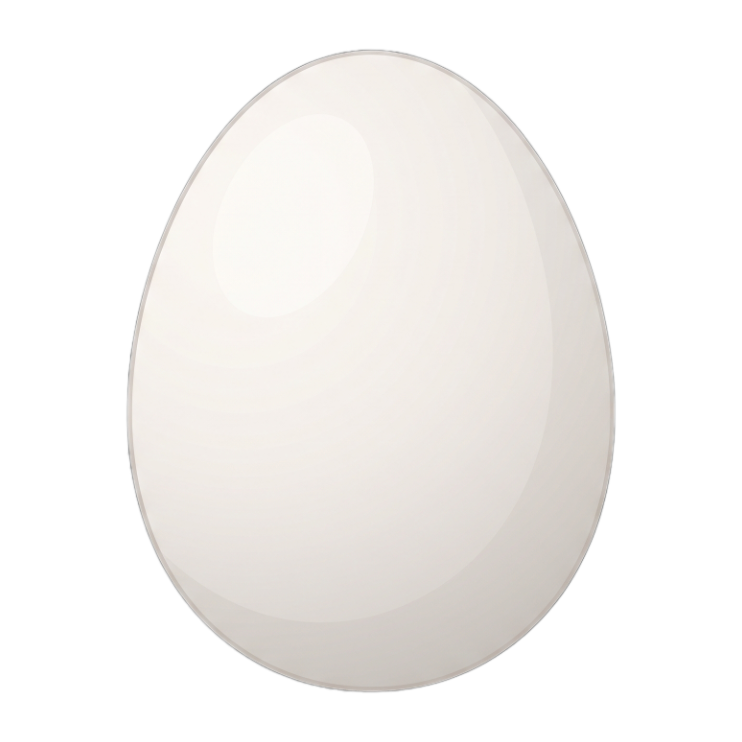
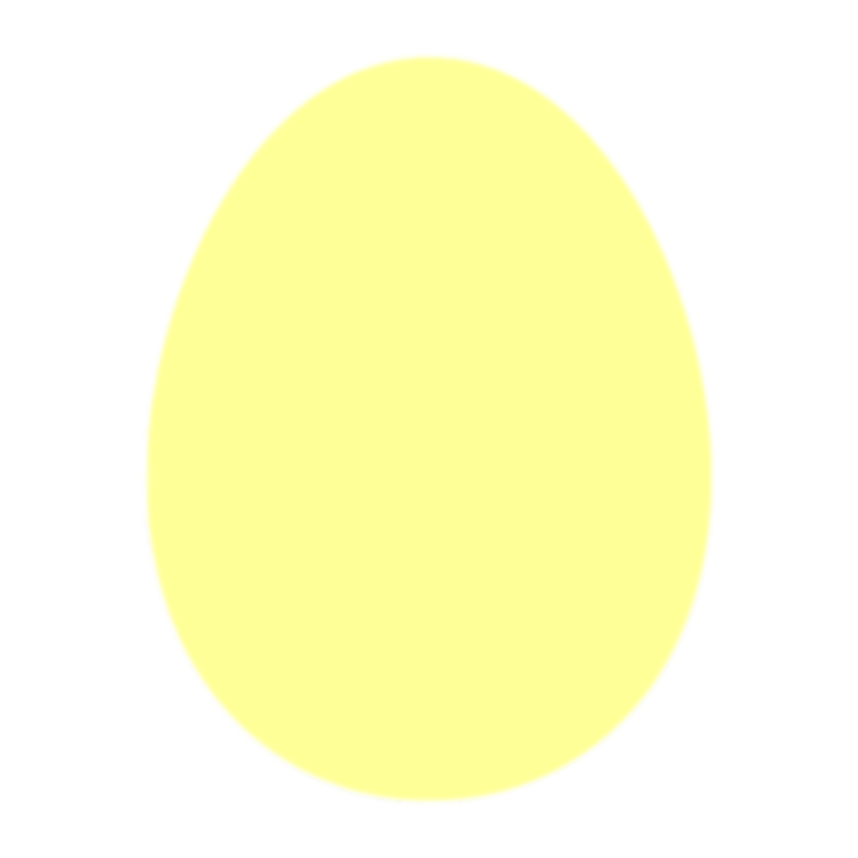
模様画像の微調整とその他画像追加

diff --git a/app/event/page.tsx b/app/event/page.tsx
@@ -1,4 +1,5 @@
 // app/event/page.tsx
+/* eslint-disable @next/next/no-img-element */
 "use client";
 
 import { useEffect, useState, Suspense } from "react";
@@ -24,6 +25,9 @@ function EventContent() {
   const [currentPlayerIndex, setCurrentPlayerIndex] = useState(0);
   const [totalScans, setTotalScans] = useState(0);
   const [tempAnswers, setTempAnswers] = useState<Record<string, number>>({});
+  
+  // ▼ 追加: 全員のたまごデータを保持しておくステート
+  const [eggDataMap, setEggDataMap] = useState<Record<string, number[]>>({});
 
   useEffect(() => {
     if (!qrIdParam) {
@@ -43,16 +47,19 @@ function EventContent() {
 
         const data = userSnap.data();
         
-        // プレイヤー一覧の取得（入力順の配列）
+        // プレイヤー一覧の取得
         const names = data.orderedNames || Object.keys(data.nickName || {});
         setNicknames(names);
+        
+        // ▼ 追加: たまごデータをステートに保存
+        setEggDataMap(data.nickName || {});
 
         // 読み取り回数（合計値）を計算
         const scannedQRs: number[] = data.scannedQRs || [0, 0, 0, 0, 0, 0];
         const total = scannedQRs.reduce((sum, current) => sum + current, 0);
-        setTotalScans(total); // 例: 初回なら0、1回クリア後なら1
+        setTotalScans(total);
 
-        // 合計値をドキュメントIDとして event コレクションから設問を取得
+        // イベントデータの取得
         const eventRef = doc(db, "event", total.toString());
         const eventSnap = await getDoc(eventRef);
 
@@ -88,18 +95,15 @@ function EventContent() {
     if (isUpdating || !currentUser || !qrIdParam) return;
     
     const currentName = nicknames[currentPlayerIndex];
-    // 選択した設問の番号（1番目からなので index + 1）を一時保存
     const selectedAnswerNumber = choiceIndex + 1;
     const newAnswers = { ...tempAnswers, [currentName]: selectedAnswerNumber };
     setTempAnswers(newAnswers);
 
-    // ▼ まだ次のプレイヤーがいる場合、画面を切り替えて処理を終了
     if (currentPlayerIndex < nicknames.length - 1) {
       setCurrentPlayerIndex((prev) => prev + 1);
       return; 
     }
 
-    // ▼ 全員が選び終わった場合、一括でFirestoreに保存する
     setIsUpdating(true);
     const qrIndex = parseInt(qrIdParam, 10);
 
@@ -110,26 +114,20 @@ function EventContent() {
       if (userSnap.exists()) {
         const data = userSnap.data();
         
-        // 1. QR読み取り場所のフラグを1にする
         const newScannedQRs = [...(data.scannedQRs || [0, 0, 0, 0, 0, 0])];
         newScannedQRs[qrIndex] = 1;
 
-        // 2. 全員のたまご情報を更新する
         const updatedNickName = { ...data.nickName };
         nicknames.forEach((name) => {
-          // その人が選んだ番号
           const answerNum = newAnswers[name];
-          // 初回イベント（totalScans=0）なら配列の0番目に上書き
           updatedNickName[name][totalScans] = answerNum;
         });
 
-        // まとめてFirestoreを更新
         await updateDoc(userRef, {
           scannedQRs: newScannedQRs,
           nickName: updatedNickName
         });
 
-        // ホームへ戻る
         router.push("/");
       }
     } catch (error) {
@@ -144,6 +142,16 @@ function EventContent() {
   }
 
   const currentName = nicknames[currentPlayerIndex];
+  const eventImageSrc = `/event_${totalScans}.png`;
+
+  // ▼ 追加: 現在のプレイヤーの過去の回答データから画像を特定
+  const userAnswers = eggDataMap[currentName] || [];
+  const eggType = userAnswers[0] || 0;    // 1回目(インデックス0)の回答＝タイプ
+  const eggColor = userAnswers[2] || 0;   // 3回目(インデックス2)の回答＝色
+  const eggPattern = userAnswers[3] || 0; // 4回目(インデックス3)の回答＝模様
+
+  const eggImagePath = `/egg_${eggType}_${eggColor}.png`;
+  const patternImagePath = `/pattern_${eggPattern}.png`;
 
   return (
     <div className="w-full max-w-sm rounded-2xl bg-white p-6 shadow-md">
@@ -160,6 +168,33 @@ function EventContent() {
       </h2>
 
       <div className="mb-6 h-px w-full bg-gray-200" />
+
+      {/* ▼ 変更: イベント画像とたまご画像を重ねて表示 */}
+      <div className="mb-6 relative mx-auto flex w-full max-w-[240px] justify-center">
+        
+        {/* totalScansが3または4のときだけ、後ろにたまごと模様を表示 */}
+        {(totalScans === 3 || totalScans === 4) && (
+          <>
+            <img
+              src={eggImagePath}
+              alt="たまご"
+              className="absolute inset-0 m-auto h-full w-full object-contain"
+            />
+            <img
+              src={patternImagePath}
+              alt="模様"
+              className="absolute inset-0 m-auto h-full w-full object-contain"
+            />
+          </>
+        )}
+
+        {/* 前面のイベント画像 */}
+        <img
+          src={eventImageSrc}
+          alt="イベント画像"
+          className="relative z-10 w-full object-contain drop-shadow-md"
+        />
+      </div>
 
       <h1 className="mb-6 text-lg font-bold leading-relaxed text-gray-800">
         {question}
